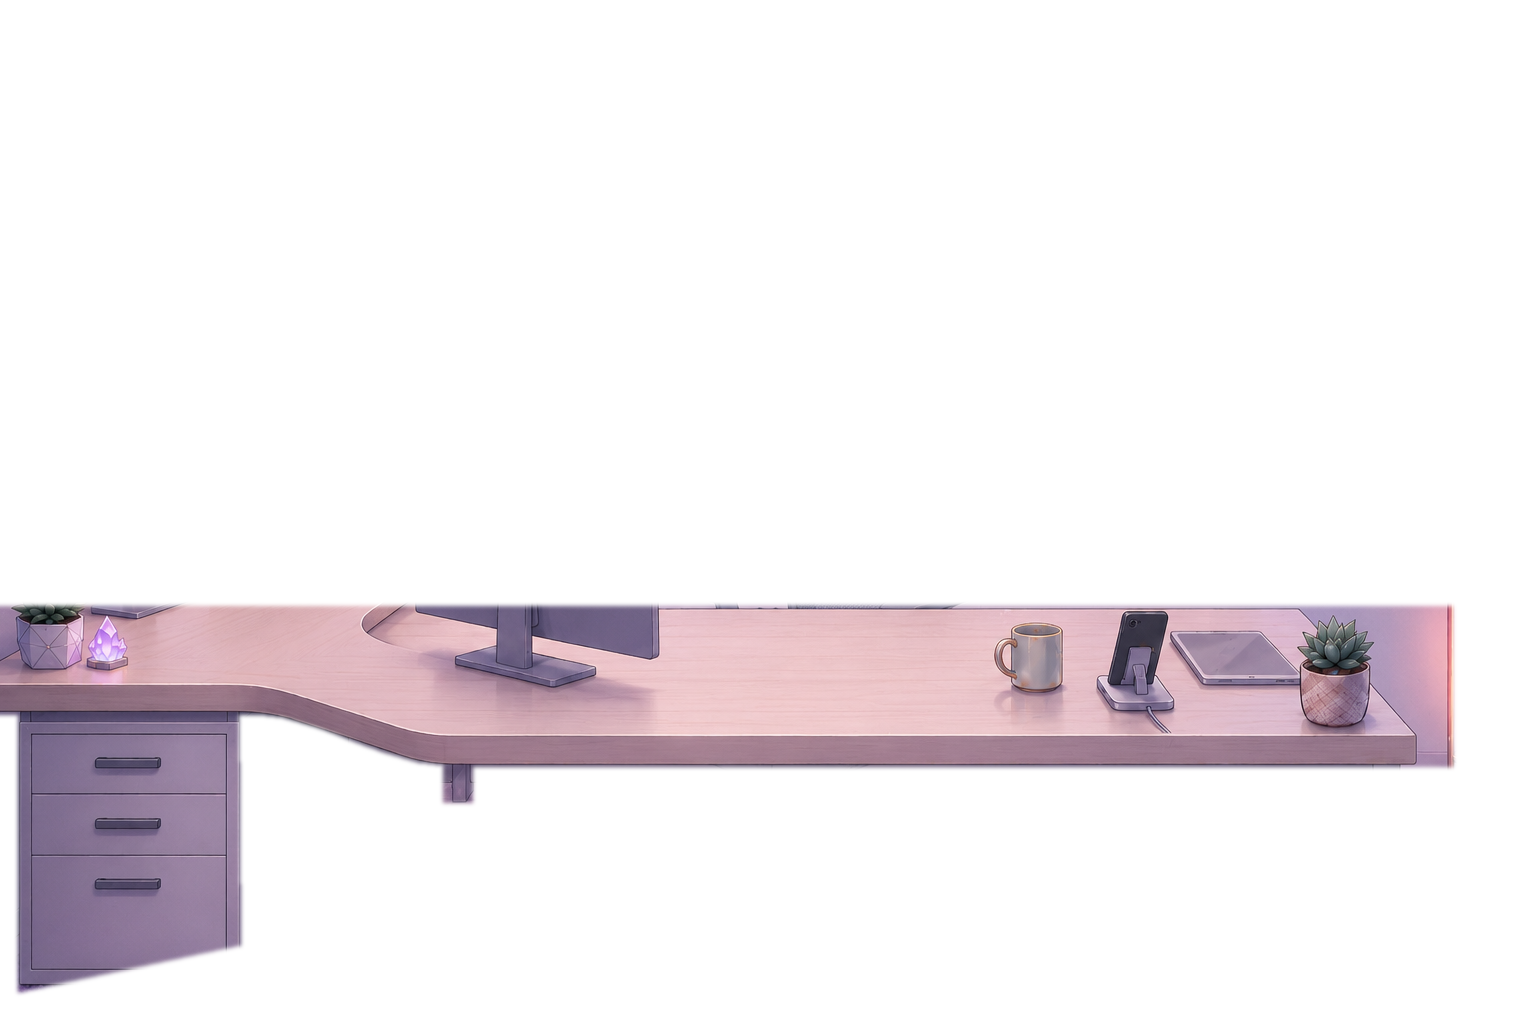
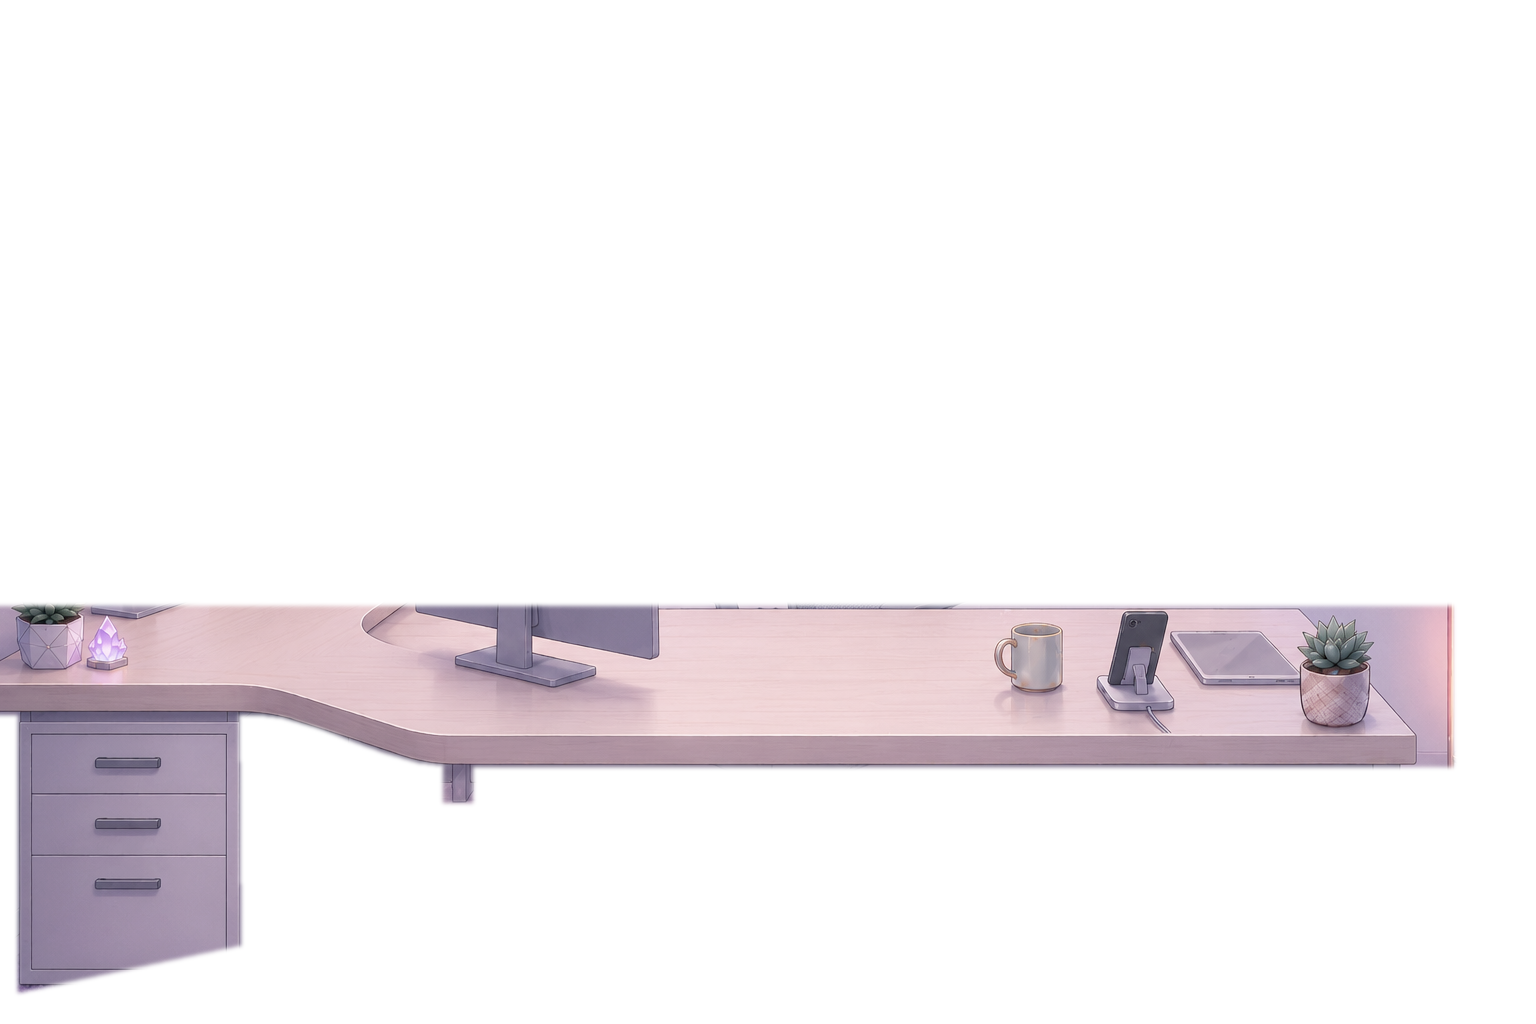
修窗洞挖穿显示器，整体调亮一档
用户报两条：窗户挡住第二块显示器、色调偏深。

窗洞那条是我盖坏的：交付图里第二块显示器画在窗户**前面**，而我照老规矩
把整个包围盒刷成纯品红、cut_scene 又按包围盒挖洞，那个角就被挖穿了。
"照坐标盖一块品红"是我出灰模那个年代的做法——图由别人给，前提就没了。

- Scripts/install_scene.py（新）：交付图 → 入库图。品红只提纯不改形状，
  而且按连通域判、不按全图颜色判（第一版把屏幕画面里的粉紫也刷了）
- Scripts/cut_scene.py：挖洞改成按品红区域 + 外扩 2px，不按包围盒。
  打印"占包围盒 93.7%"，差的那 6.3% 就是挡在窗前的显示器

色调：低频调整，抬中间调伽马 0.77 + 收饱和 0.87，不动对比度和色相。
平均亮度 134.1 → 153.6，饱和差 46.3 → 35.7（上一版是 179.3 / 32.0）。

角色不用重渲（只改了房间层的颜色和窗洞形状）。
判据：facefit 换比例最多多差 1.0px、handstrip 手在动 56%/13%。

diff --git a/Scripts/install_scene.py b/Scripts/install_scene.py
@@ -1,0 +1,102 @@
+#!/usr/bin/env python3
+"""把用户交付的房间图收成入库用的 `Art/scene_rich.png`。
+
+    python3 Scripts/install_scene.py Art/scene_delivered.png --gamma 0.77 --sat 0.87
+
+两件事，都必须做：
+
+## 一、调色
+
+交付图往往比上一版暗、也更艳（这次实测平均亮度 134 vs 179、饱和差 46 vs 32），
+直接入库观感发闷。这里做的是**低频调整**：抬中间调的伽马 + 往亮度方向收一点
+饱和度。不做对比度、不做色相，那些一动就会和角色的卡通着色打架
+（角色是另外渲的，用 `snozzy_lib.LIGHTS['bright']`，这边一暗她就浮在上面）。
+
+判据就是打印出来的那两个数：拿它和上一版比，别凭感觉。
+
+## 二、品红只提纯，**千万别按包围盒整块刷**
+
+窗洞是运行时塞程序化天空的占位色。以前的做法是"照原坐标重新盖一块纯品红"，
+那是在**我出灰模**的年代——那时窗洞前面保证没有东西。
+
+用户交付的图不一样：这次第二块显示器就画在窗户**前面**、压住窗洞左下角。
+整块刷下去，那个角就被抹平了，切层之后天空从显示器里透出来——
+用户报的"窗户挡住第二个显示屏"就是这么来的。
+
+所以这里只把**本来就是品红的那些像素**提纯成 #FF00FF，形状一个都不动。
+配套地，`cut_scene.py` 挖洞也改成按**品红区域**挖，不按包围盒（见那边的注释）。
+
+**而且"是品红"要按连通域判，不能全图按颜色判。** 第一版我用一个放宽的颜色
+容差扫全图，结果把两块显示器**画面里**偏品红的像素（城市夜景的霓虹、
+播放器界面的粉紫色块）也刷成了纯品红，屏幕上落了一片品红斑。
+正解是：先拿 `cut_scene.window_rect` 取那块最大的连通域，再从它往外**长几步**
+把辉光染过的边缘吃进来——长不到屏幕里去，中间隔着机身边框。
+"""
+import argparse
+import os
+import sys
+
+import numpy as np
+from PIL import Image
+
+sys.path.insert(0, os.path.dirname(os.path.abspath(__file__)))
+from cut_scene import window_rect
+
+WINDOW_TOL = (170, 110, 170)     # R>、G<、B> —— 比 cut_scene 的略宽，用来往外长
+GROW = 4                          # 从连通域往外长几步
+
+
+def stats(a, mag):
+    v = a[~mag]
+    lum = 0.2126 * v[:, 0] + 0.7152 * v[:, 1] + 0.0722 * v[:, 2]
+    return lum.mean(), np.median(lum), (v.max(1) - v.min(1)).mean()
+
+
+def main():
+    ap = argparse.ArgumentParser()
+    ap.add_argument("src")
+    ap.add_argument("--out", default="Art/scene_rich.png")
+    ap.add_argument("--gamma", type=float, default=1.0,
+                    help="<1 提亮中间调。0.77 大约把平均亮度 134 抬到 155")
+    ap.add_argument("--sat", type=float, default=1.0,
+                    help="<1 降饱和。0.87 大约把平均饱和差 46 收到 40")
+    a = ap.parse_args()
+
+    im = Image.open(a.src).convert("RGB")
+    src = np.asarray(im, np.float32)
+
+    rect, comp = window_rect(im)          # 最大那块连通域＝窗洞，屏幕上的品红斑进不来
+    if rect is None:
+        raise SystemExit("找不到品红窗洞——这张图不能直接入库")
+    loose = ((src[:, :, 0] > WINDOW_TOL[0]) & (src[:, :, 1] < WINDOW_TOL[1])
+             & (src[:, :, 2] > WINDOW_TOL[2]))
+    mag = comp.copy()
+    for _ in range(GROW):                 # 只往**放宽容差里的邻居**长，长不进屏幕
+        g = mag.copy()
+        g[1:] |= mag[:-1]; g[:-1] |= mag[1:]
+        g[:, 1:] |= mag[:, :-1]; g[:, :-1] |= mag[:, 1:]
+        mag = g & loose | mag
+    print("窗洞包围盒", rect,
+          " 连通域 %d → 长完 %d 像素" % (int(comp.sum()), int(mag.sum())))
+    print("调色前  平均亮度 %.1f  中位 %.1f  平均饱和差 %.1f" % stats(src, mag))
+
+    out = src.copy()
+    if a.gamma != 1.0:
+        out = 255.0 * np.power(out / 255.0, a.gamma)
+    if a.sat != 1.0:
+        lum = (0.2126 * out[:, :, 0] + 0.7152 * out[:, :, 1]
+               + 0.0722 * out[:, :, 2])[:, :, None]
+        out = lum + (out - lum) * a.sat
+    out = out.clip(0, 255)
+    print("调色后  平均亮度 %.1f  中位 %.1f  平均饱和差 %.1f" % stats(out, mag))
+
+    # 品红只提纯，形状不动——挡在窗户前面的东西要留住
+    out[mag] = (255, 0, 255)
+    print("品红像素 %d 个已提纯成 #FF00FF（形状没动）" % int(mag.sum()))
+
+    Image.fromarray(out.round().astype(np.uint8)).save(a.out)
+    print("已写入", a.out)
+
+
+if __name__ == "__main__":
+    main()

diff --git a/Scripts/cut_scene.py b/Scripts/cut_scene.py
@@ -85,14 +85,31 @@ def main():
     desk = np.dstack([rgb, feather(mask, a.feather)])
     Image.fromarray(desk).save(os.path.join(a.out, "desk.png"))
 
-    # 房间层：整幅画，把窗洞挖空
+    # 房间层：整幅画，把窗洞挖空。
+    #
+    # 按**品红区域**挖，不按包围盒。以前是按包围盒挖的（窗户是矩形，
+    # 而边缘被辉光染过的像素纯度不够、进不了连通域，照连通域挖会在窗角留豁口），
+    # 那是在**我出灰模**的年代——那时窗洞前面保证没有东西。
+    #
+    # 用户交付的房间图不一样：会有东西画在窗户**前面**（这一版是第二块显示器，
+    # 压住窗洞左下角）。按包围盒挖，那块显示器就被挖穿，天空从它里面透出来。
+    #
+    # 豁口那个老问题现在由两处一起挡住：`install_scene.py` 把所有品红像素
+    # 提纯成 #FF00FF（辉光染过的也算），这里再把区域**外扩两像素**吃掉
+    # 品红和墙之间那道抗锯齿的窄带。
     room_alpha = np.full((H, W), 255, np.uint8)
-    # 按**包围盒**挖洞，而不是按连通域本身。窗户本来就是矩形，
-    # 而边缘那一圈被霓虹辉光染过的像素纯度不够、进不了连通域，
-    # 照着连通域挖会在窗角留下豁口。
     if rect:
+        grown = hole.copy()
+        for _ in range(2):
+            g = grown.copy()
+            g[1:] |= grown[:-1]; g[:-1] |= grown[1:]
+            g[:, 1:] |= grown[:, :-1]; g[:, :-1] |= grown[:, 1:]
+            grown = g
+        room_alpha[grown] = 0
         x0, y0, x1, y1 = rect
-        room_alpha[y0:y1, x0:x1] = 0
+        covered = 100 * grown[y0:y1, x0:x1].mean()
+        print(f"    窗洞按区域挖：占包围盒 {covered:.1f}%"
+              f"{'' if covered > 99.5 else '（差的那部分是挡在窗前面的东西，正常）'}")
     else:
         room_alpha[hole] = 0
     room = np.dstack([rgb, feather(room_alpha, 1)])

diff --git a/HANDOFF.md b/HANDOFF.md
@@ -852,7 +852,29 @@ x=599），她坐在内转角，这才读得出来。
 （`Art/snozzy_cutout.png`，让他合进去，姿势就不会跑）。
 光说"给我张图"是不够的——他生成时没有这两样，出来的构图和角色必然对不上。
 
-**54. 引导图里的任何残留，重绘都会当成家具给你画出来。**
+**54. 用户交付的图里，会有东西画在窗户前面——品红别再"照坐标盖一块"。**
+用户报"窗户挡住第二个显示屏"。查下来是我自己盖坏的：交付图里第二块显示器
+画在窗户**前面**、压住窗洞左下角，而我照老规矩把**整个包围盒**刷成纯品红，
+把那个角抹平了；`cut_scene` 又按包围盒挖洞，于是天空从显示器里透出来。
+
+"照原坐标盖一块纯品红"这条是**我出灰模那个年代**的做法——那时窗洞前面
+保证没有东西。图由别人给，这个前提就没了。现在分两处挡住：
+
+- `Scripts/install_scene.py` 只把**本来就是品红的像素**提纯，形状一个都不动
+- `Scripts/cut_scene.py` 按**品红区域**挖洞、外扩 2 像素吃掉抗锯齿窄带，
+  不再按包围盒。挖完打印"占包围盒百分之几"，93.7% 就是被挡住的那 6.3%
+
+**而且"是不是品红"要按连通域判，不能全图按颜色判。** 我第一版拿放宽的颜色
+容差扫全图，把两块显示器**画面里**偏品红的像素（城市霓虹、播放器界面的粉紫）
+也刷成了纯品红，屏幕上落了一片品红斑。正解是从 `window_rect` 那块最大连通域
+往外长几步——长不进屏幕里去，中间隔着机身边框。
+
+顺带一条：**交付图的色调也要量了再收**。这次实测比上一版暗一大截
+（平均亮度 134 vs 179、饱和差 46 vs 32），直接入库观感发闷。
+`install_scene.py --gamma --sat` 做的是低频调整（抬中间调伽马 + 收一点饱和），
+**不动对比度和色相**——那些一动就和角色的卡通着色打架。收到 153.6/35.7。
+
+**55. 引导图里的任何残留，重绘都会当成家具给你画出来。**
 我上一版的引导图在 x 592–620 留了一小条没抹干净的旧显示器边（当时看见了，
 觉得"就一小条"没管）。codex 把它画成了一块**立在桌上的灰板**，
 右缘到 645——**压过键盘左缘 594**，键盘会穿进去。
@@ -1029,6 +1051,7 @@ python3 Scripts/scene_drift.py Art/scene_empty_clean.png Art/scene_rich.png
 python3 Scripts/cut_scene.py Art/scene_rich.png --out Assets
 
 # 换了用户交付的房间图之后，整套要走一遍（见第二节开头那条路）
+python3 Scripts/install_scene.py Art/scene_delivered.png --gamma 0.77 --sat 0.87
 python3 Scripts/desk_mask.py --out Art/blocking --check Art/scene_delivered.png
 python3 Scripts/cut_scene.py Art/scene_rich.png --out Assets
 $B --background --factory-startup --python Blender/fit_scene.py -- Snozzy.vrm
